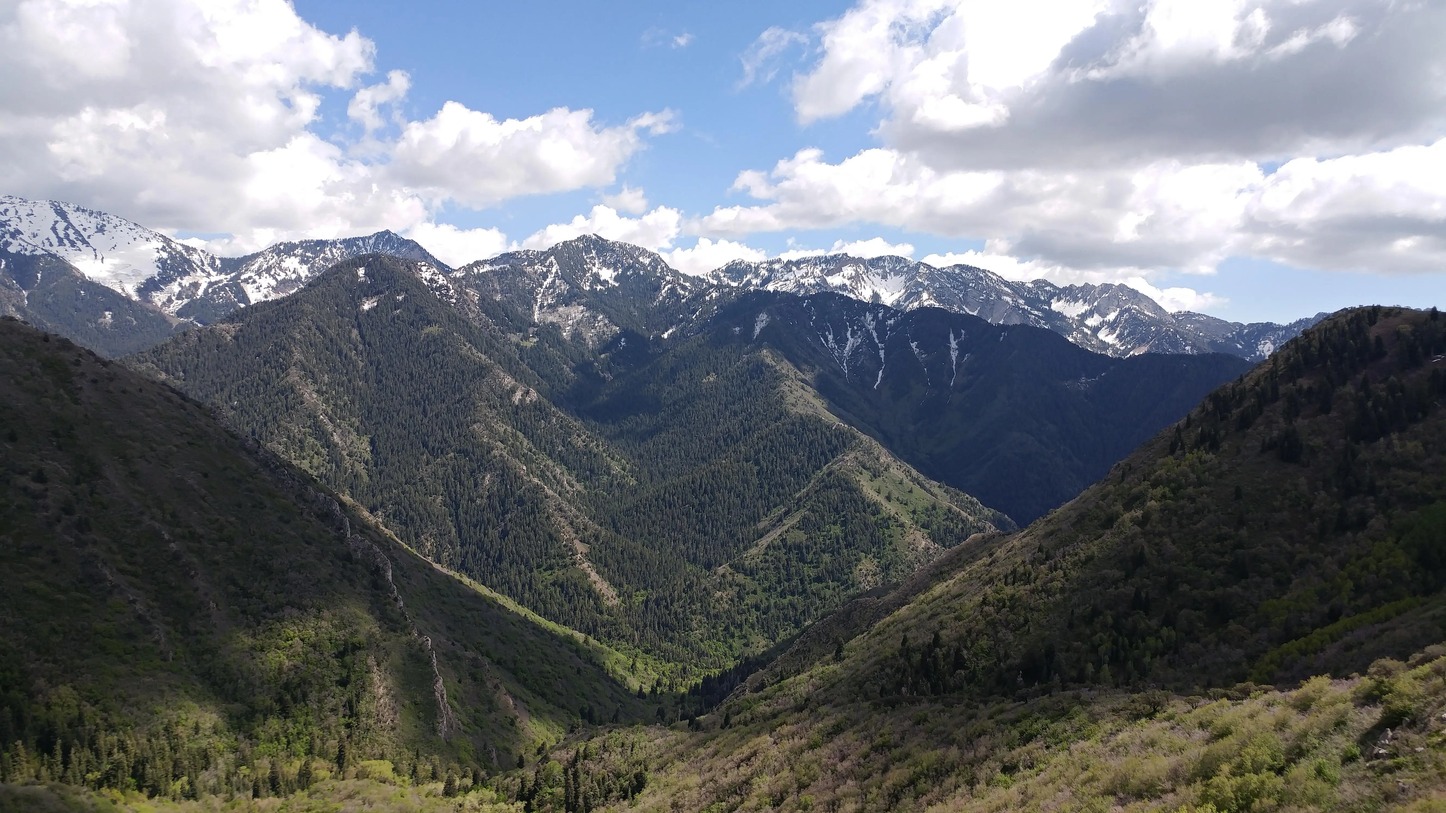
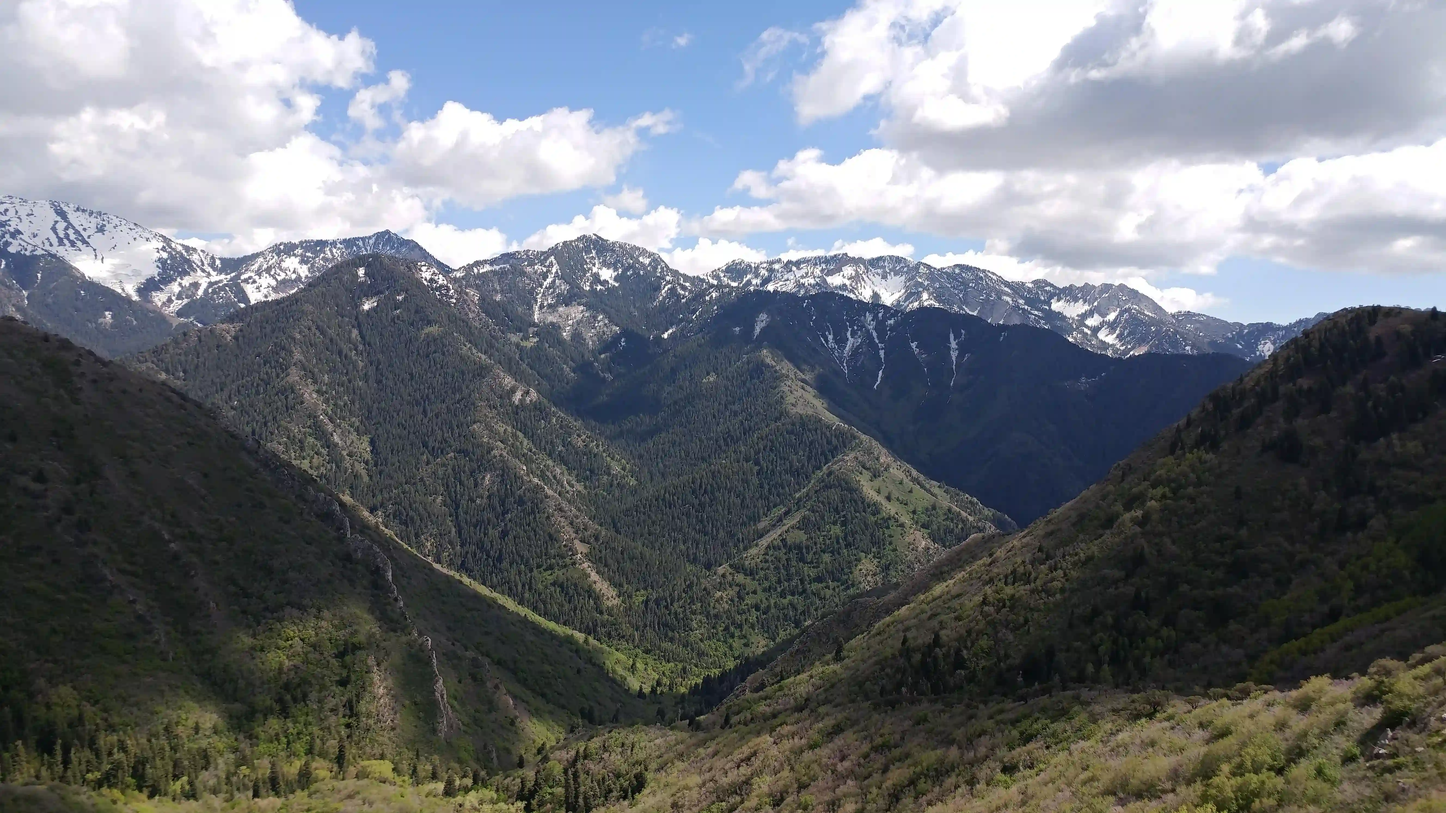
Compress images

diff --git a/Wk11An1/Mt_Olympus.html b/Wk11An1/Mt_Olympus.html
@@ -5,7 +5,7 @@
     <title>Wasatch: Mt. Olympus</title>
     <link rel="icon" type="image/x-icon" href="./mountain.svg">
     <link rel="stylesheet" href="./styles.css">
-    <script type="module" src="main.js"></script>
+    <script type="module" src="./main.js"></script>
     <link rel="preconnect" href="https://fonts.googleapis.com">
     <link rel="preconnect" href="https://fonts.gstatic.com" crossorigin>
     <link href="https://fonts.googleapis.com/css2?family=Rubik:ital,wght@0,300..900;1,300..900&display=swap" rel="stylesheet">
